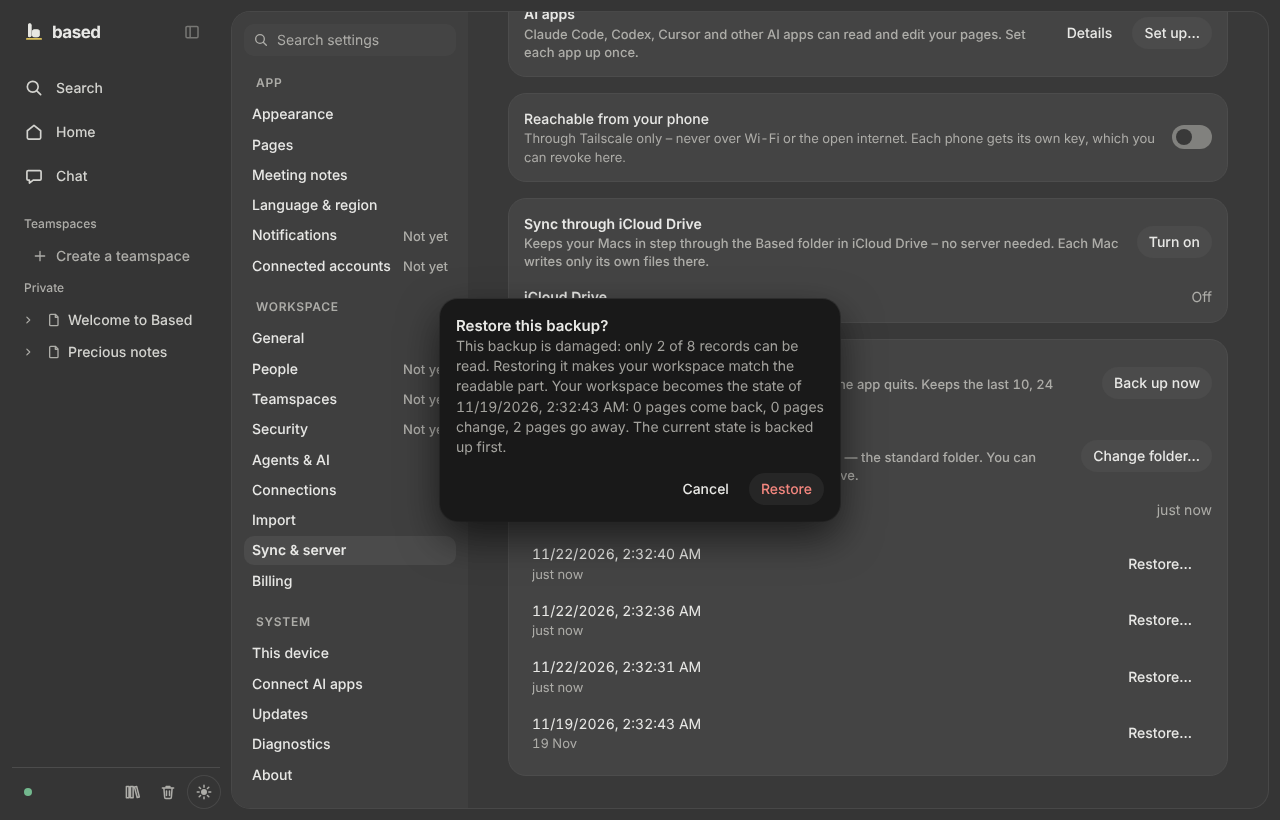
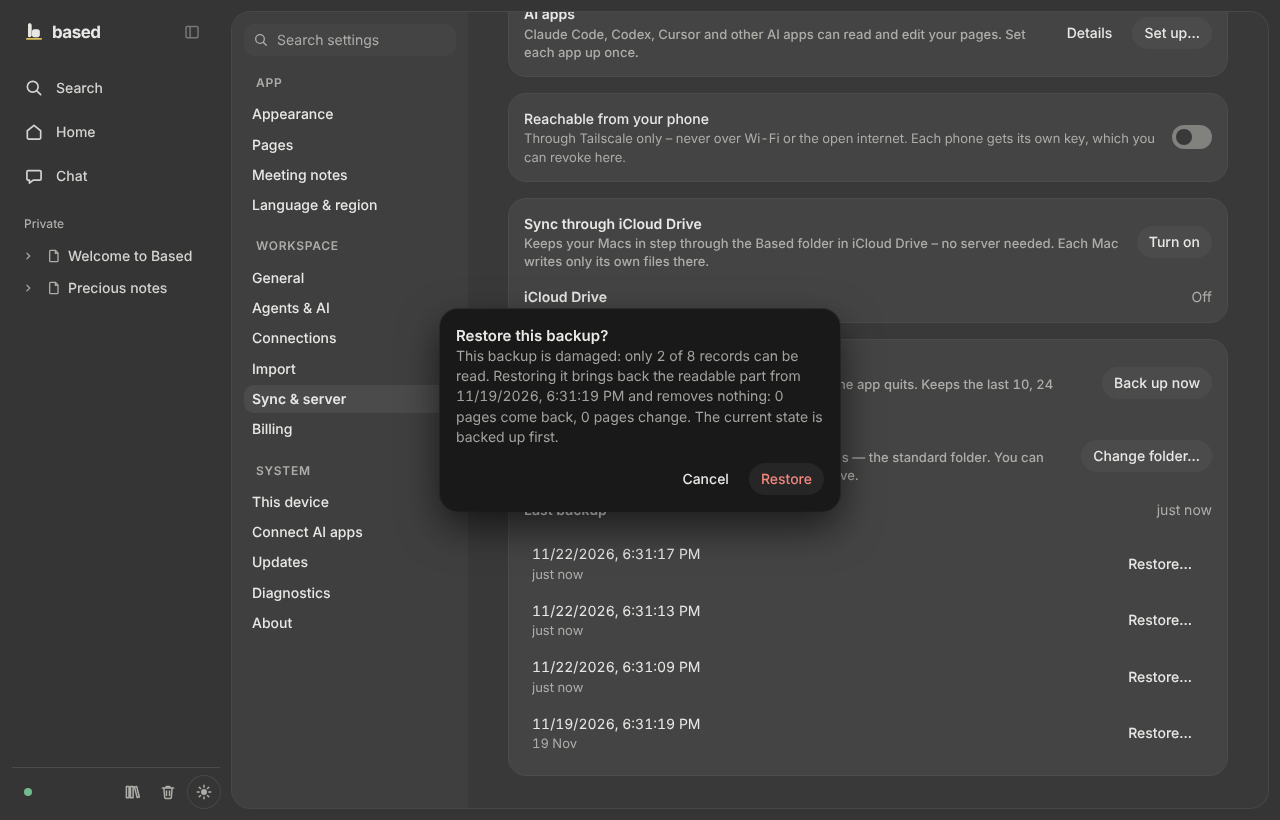
BSD-649: Beschädigtes Backup – warnen, dann nur den lesbaren Teil wiederherstellen
Entscheidung Elija 22.11.: beides, warnen und dann den Teil wiederherstellen.
- Core: planRestore(store, records, { keepUnlisted }) – ohne removals; was der Stand nicht nennt, bleibt
  (es könnte in den unlesbaren Zeilen gestanden haben).
- Server: Vorschau und Wiederherstellen nutzen das bei einem beschädigten Stand. Unversehrte Stände wie bisher.
- Web: Rückfrage „…brings back the readable part from <Datum> and removes nothing: N pages come back, M pages change.“
- Kein Datenformat geändert.

Tests: core backup.test.ts (keepUnlisted), server backups.test.ts (Vorschau removed 0, Wiederherstellen behält
neuere Seite), backupText.test.ts, e2e/backups.spec.ts (Text, Bildschirmfotos hell/dunkel).

Claude-Session: https://claude.ai/code/session_01F33L4nuehuwSMv2xGVqJEY

diff --git a/apps/web/src/desktop/BackupsGroup.tsx b/apps/web/src/desktop/BackupsGroup.tsx
@@ -20,8 +20,15 @@ import { damagedBackupText, restoredMessage } from "./backupText.js";
 
 type Info = Awaited<ReturnType<ReturnType<typeof localServer>["backups"]>>;
 const pages = (n: number) => `${n} page${n === 1 ? "" : "s"}`;
-const pagesText = (p: { added: number; changed: number; removed: number }) =>
-  [`${pages(p.added)} ${p.added === 1 ? "comes" : "come"} back`, `${pages(p.changed)} ${p.changed === 1 ? "changes" : "change"}`, `${pages(p.removed)} ${p.removed === 1 ? "goes" : "go"} away`].join(", ");
+const pagesParts = (p: { added: number; changed: number; removed: number }) =>
+  [`${pages(p.added)} ${p.added === 1 ? "comes" : "come"} back`, `${pages(p.changed)} ${p.changed === 1 ? "changes" : "change"}`, `${pages(p.removed)} ${p.removed === 1 ? "goes" : "go"} away`];
+const pagesText = (p: { added: number; changed: number; removed: number }) => pagesParts(p).join(", ");
+/** BSD-649: Rückfrage vor dem Wiederherstellen. Ein beschädigter Stand bringt nur den lesbaren Teil zurück, nichts geht weg. */
+const restoreAsk = (c: { at: number; pages: { added: number; changed: number; removed: number }; damaged?: { readable: number; expected: number } }) => {
+  const when = new Date(c.at).toLocaleString();
+  if (c.damaged) return `${damagedBackupText(c.damaged)}Restoring it brings back the readable part from ${when} and removes nothing: ${pagesParts(c.pages).slice(0, 2).join(", ")}. The current state is backed up first.`;
+  return `Your workspace becomes the state of ${when}: ${pagesText(c.pages)}. The current state is backed up first.`;
+};
 
 export function BackupsGroup() {
   const ls = localServer();
@@ -97,7 +104,7 @@ export function BackupsGroup() {
         </VStack>
       ) : null}
       <AlertDialog isOpen={!!confirm} onOpenChange={(o) => { if (!o) setConfirm(undefined); }} title="Restore this backup?"
-        description={confirm ? `${damagedBackupText(confirm.damaged)}Your workspace becomes the state of ${new Date(confirm.at).toLocaleString()}: ${pagesText(confirm.pages)}. The current state is backed up first.` : ""}
+        description={confirm ? restoreAsk(confirm) : ""}
         actionLabel="Restore" onAction={() => void restore()} />
     </Group>
   );

diff --git a/apps/web/e2e/backups.spec.ts b/apps/web/e2e/backups.spec.ts
@@ -110,7 +110,7 @@ test("BSD-274: Back up now, Seite löschen und Papierkorb leeren, aus dem Backup
   }
 
   // BSD-648: ein beschädigter Stand (hier: nach zwei Records abgeschnitten) – die Rückfrage sagt das zuerst, mit
-  // N von M lesbaren Records. Wiederherstellen selbst bleibt unverändert; hier wird nur abgebrochen.
+  // N von M lesbaren Records, und dass nichts entfernt wird (BSD-649); hier wird nur abgebrochen.
   const newest = readdirSync(join(backupDir, "snapshots")).filter((f) => f.endsWith(".based.jsonl")).sort().at(-1)!;
   const full = readFileSync(join(backupDir, "snapshots", newest), "utf8").split("\n").filter((l) => l !== "");
   const at = Date.now() - 3 * 86_400_000;
@@ -125,7 +125,9 @@ test("BSD-274: Back up now, Seite löschen und Papierkorb leeren, aus dem Backup
     const label = await page.evaluate((x) => new Date(x).toLocaleString(), Math.floor(at / 1000) * 1000);
     await page.getByTestId("backup-list").getByRole("listitem").filter({ hasText: label }).getByRole("button", { name: "Restore…" }).click();
     const ask = page.getByRole("alertdialog");
-    await expect(ask).toContainText(`This backup is damaged: only 2 of ${full.length - 1} records can be read. Restoring it makes your workspace match the readable part.`);
+    await expect(ask).toContainText(`This backup is damaged: only 2 of ${full.length - 1} records can be read. Restoring it brings back the readable part from`);
+    await expect(ask).toContainText("and removes nothing:");
+    await expect(ask).not.toContainText("away"); // BSD-649: nichts geht weg
     await page.waitForTimeout(400); // Einblenden abwarten (Bildschirmfoto)
     if (browserName === "chromium") await page.screenshot({ path: join(screens, `web-settings-backups-restore-damaged-${theme}.png`) });
     await page.keyboard.press("Escape");

diff --git a/apps/server/src/backups.ts b/apps/server/src/backups.ts
@@ -113,15 +113,18 @@ export class Backups {
 
   list() { return listSnapshots(this.target); }
 
-  /** BSD-648: dazu `damaged`, wenn der Stand unvollständig ist (die Rückfrage sagt es; Wiederherstellen bleibt wie es ist). */
+  /**
+   * BSD-648: dazu `damaged`, wenn der Stand unvollständig ist (die Rückfrage sagt es).
+   * BSD-649: ein beschädigter Stand bringt nur seinen lesbaren Teil zurück und entfernt nichts.
+   */
   async preview(name: string) {
     const read = await readSnapshot(this.target, name);
-    const pages = planRestore(this.store, read.records).pages;
+    const pages = planRestore(this.store, read.records, { keepUnlisted: !!read.damaged }).pages;
     return read.damaged ? { pages, damaged: read.damaged } : { pages };
   }
 
   /**
-   * Wiederherstellen (ersetzen). Vorher wird der aktuelle Stand gesichert – so ist es selbst rückgängig zu machen.
+   * Wiederherstellen (ersetzen; bei beschädigtem Stand nur ergänzen, BSD-649). Vorher wird der aktuelle Stand gesichert – so ist es selbst rückgängig zu machen.
    * `missing`: Dateien, die der Stand nennt, die aber weder hier noch im Backup lesbar sind.
    */
   async restore(name: string): Promise<{ before: string | undefined; pages: { added: number; changed: number; removed: number }; missing: string[] }> {
@@ -136,7 +139,7 @@ export class Backups {
       if (!ok) missing.push(id);
     }
     const before = await this.snapshot(true);
-    const plan = planRestore(this.store, read.records);
+    const plan = planRestore(this.store, read.records, { keepUnlisted: !!read.damaged });
     applyRestore(this.store, plan);
     this.digest = undefined;
     this.log.info("backup restored", { added: plan.pages.added, removed: plan.pages.removed, missing: missing.length });

diff --git a/packages/core/src/backup/backup.ts b/packages/core/src/backup/backup.ts
@@ -208,8 +208,12 @@ export interface RestorePlan {
 
 const isPage = (r: WireRecord | undefined) => r?.kind === "block" && (r.data.type === "page" || r.data.type === "databasePage");
 
-/** Plan: der Workspace soll genau dem Stand entsprechen (Workspace-Record bleibt der eigene). */
-export function planRestore(store: WorkspaceStore, snapshot: readonly WireRecord[]): RestorePlan {
+/**
+ * Plan: der Workspace soll genau dem Stand entsprechen (Workspace-Record bleibt der eigene).
+ * BSD-649: `keepUnlisted` (beschädigter Stand) – nur der lesbare Teil kommt zurück; was der Stand nicht nennt, bleibt
+ * (es könnte in den unlesbaren Zeilen gestanden haben), also keine `removals`.
+ */
+export function planRestore(store: WorkspaceStore, snapshot: readonly WireRecord[], opts: { keepUnlisted?: boolean } = {}): RestorePlan {
   const current = new Map<RecordKeyString, WireRecord>();
   for (const r of store.exportRecords()) if (r.kind !== "workspace") current.set(recordKey(r), r);
   const wanted = new Map<RecordKeyString, WireRecord>();
@@ -224,6 +228,7 @@ export function planRestore(store: WorkspaceStore, snapshot: readonly WireRecord
     if (isPage(r)) { if (have) pages.changed++; else pages.added++; }
   }
   const removals: RecordKeyString[] = [];
+  if (opts.keepUnlisted) return { upserts, removals, pages };
   for (const [k, r] of current) if (!wanted.has(k)) { removals.push(k); if (isPage(r)) pages.removed++; }
   return { upserts, removals, pages };
 }

diff --git a/packages/core/test/backup.test.ts b/packages/core/test/backup.test.ts
@@ -81,6 +81,21 @@ describe("Backups (BSD-274)", () => {
     expect(s.blocks.has(later)).toBe(false);
   });
 
+  it("BSD-649: `keepUnlisted` (beschädigter Stand) – der lesbare Teil kommt zurück, nichts wird entfernt", async () => {
+    const { s, a } = workspace();
+    const t = memoryTarget();
+    const snap = (await writeSnapshot(t, { records: s.exportRecords(), workspaceName: "W", assets: [], now: new Date("2026-11-12T05:00:00Z") }))!;
+    trashPages(s, [a]);
+    emptyTrash(s);
+    const later = createPage(s, { title: "Written after the backup" });
+    const plan = planRestore(s, (await readSnapshot(t, snap.name)).records, { keepUnlisted: true });
+    expect(plan.removals).toEqual([]);
+    expect(plan.pages).toEqual({ added: 2, changed: 0, removed: 0 });
+    applyRestore(s, plan);
+    expect(s.blocks.get(a)?.text).toBe("Alpha");
+    expect(s.blocks.has(later)).toBe(true);
+  });
+
   it("Aufbewahrung: letzte 10, 24 stündlich, 30 täglich, 12 monatlich – je Zeitraum der neueste; Dateien ohne Stand fallen weg", async () => {
     const start = Date.parse("2026-01-01T00:30:00Z");
     const snaps = Array.from({ length: 24 * 400 }, (_, i) => { const at = start + i * 3_600_000; return { name: snapshotName(new Date(at)), at }; });

diff --git a/apps/server/test/backups.test.ts b/apps/server/test/backups.test.ts
@@ -156,9 +156,18 @@ describe("Backups (BSD-274)", () => {
     const damaged = await call(`${app.url}/backups/${bad}/preview`);
     expect(damaged.status).toBe(200);
     expect(damaged.body.damaged).toEqual({ readable: 2, expected: records.length, skipped: 0 });
-    expect((damaged.body.pages as { removed: number }).removed).toBeGreaterThan(0);
+    // BSD-649: ein beschädigter Stand entfernt nichts
+    expect((damaged.body.pages as { removed: number }).removed).toBe(0);
     // nur gemeldet: die Vorschau ändert nichts
     expect(store.exportRecords()).toHaveLength(records.length);
+    // BSD-649: Wiederherstellen bringt den lesbaren Teil zurück, alles andere bleibt
+    const extra = createPage(store, { title: "Written after the backup" });
+    const restored = await call(`${app.url}/backups/${bad}/restore`, "POST");
+    expect(restored.status).toBe(200);
+    expect((restored.body.pages as { removed: number }).removed).toBe(0);
+    const after = store.exportRecords();
+    expect(after.length).toBeGreaterThanOrEqual(records.length + 1);
+    expect(store.blocks.has(extra)).toBe(true);
   });
 
   it("Laufzeit (20.11.): ohne Änderung seit dem letzten Stand wird nicht der ganze Workspace ausgegeben", async () => {

diff --git a/apps/web/src/desktop/backupText.ts b/apps/web/src/desktop/backupText.ts
@@ -9,9 +9,9 @@ export function restoredMessage(at: number, missing: number = 0): string {
 
 /**
  * BSD-648: Satz vorn in der Rückfrage „Restore this backup?“, wenn der Stand unvollständig ist (abgeschnitten oder
- * unlesbare Zeilen). Das Wiederherstellen selbst bleibt wie es ist – die Rückfrage sagt nur klar, was passiert.
+ * unlesbare Zeilen). BSD-649: Dann kommt nur der lesbare Teil zurück, nichts wird entfernt.
  */
 export function damagedBackupText(d: { readable: number; expected: number } | undefined): string {
   if (!d) return "";
-  return `This backup is damaged: only ${d.readable} of ${d.expected} records can be read. Restoring it makes your workspace match the readable part. `;
+  return `This backup is damaged: only ${d.readable} of ${d.expected} records can be read. `;
 }

diff --git a/apps/web/src/desktop/backupText.test.ts b/apps/web/src/desktop/backupText.test.ts
@@ -17,6 +17,6 @@ describe("restoredMessage", () => {
 describe("damagedBackupText (BSD-648)", () => {
   it("unversehrt: nichts", () => expect(damagedBackupText(undefined)).toBe(""));
   it("beschädigt: sagt es zuerst, mit N von M Records, und was das Wiederherstellen tut", () => {
-    expect(damagedBackupText({ readable: 2, expected: 7 })).toBe("This backup is damaged: only 2 of 7 records can be read. Restoring it makes your workspace match the readable part. ");
+    expect(damagedBackupText({ readable: 2, expected: 7 })).toBe("This backup is damaged: only 2 of 7 records can be read. ");
   });
 });

diff --git a/replica/backlog.md b/replica/backlog.md
@@ -26,7 +26,7 @@ Inbox: leer beim Start. Neu in der Nacht einsortiert: BSD-648 (Befund Schicht A,
 | BSD-646 Einstieg/Diagnostics nennen „Send to Based“ | ✅ | Texte in welcomeTourSteps, beta.ts, welcomeGuides (nur neue Workspaces); Fotos 1280 × 820 |
 | BSD-647 Problemberichte: IndexedDB getAll beim Start | ❌ | Blockiert bis nach der Beta (bräuchte IndexedDB-Versionssprung) |
 | BSD-648 Backup-Stand beschädigt: erkennen und warnen | ✅ | archiveDamage in core, preview liefert damaged, Rückfrage nennt N von M; Restore-Verhalten unverändert |
-| BSD-649 Beschädigten Stand ablehnen oder nur ergänzen? | ❌ | Blockiert, Frage an Elija |
+| BSD-649 Beschädigten Stand ablehnen oder nur ergänzen? | 🟡 | Entscheidung Elija 22.11.: warnen, dann den lesbaren Teil wiederherstellen. Ein beschädigter Stand entfernt nichts mehr (planRestore `keepUnlisted`), Rückfrage sagt es; Mac-Test. Checkliste: geprüft Rückfrage 1280 × 820 hell/dunkel (Chromium), behoben –, offen WebKit nur in der CI |
 | BSD-650 transcribe.test.ts zählt fremde /tmp-Ordner | ✅ | nur Test |
 | BSD-651 welcome.spec Fokusrahmen wackelt in WebKit | ✅ | nur Test: Return erst nach Fokus auf „Continue“; 20/20 je Browser |
 | BSD-652 polish.spec „Alles löschen“ (@perf) wackelt in WebKit | ✅ | nur Test |
